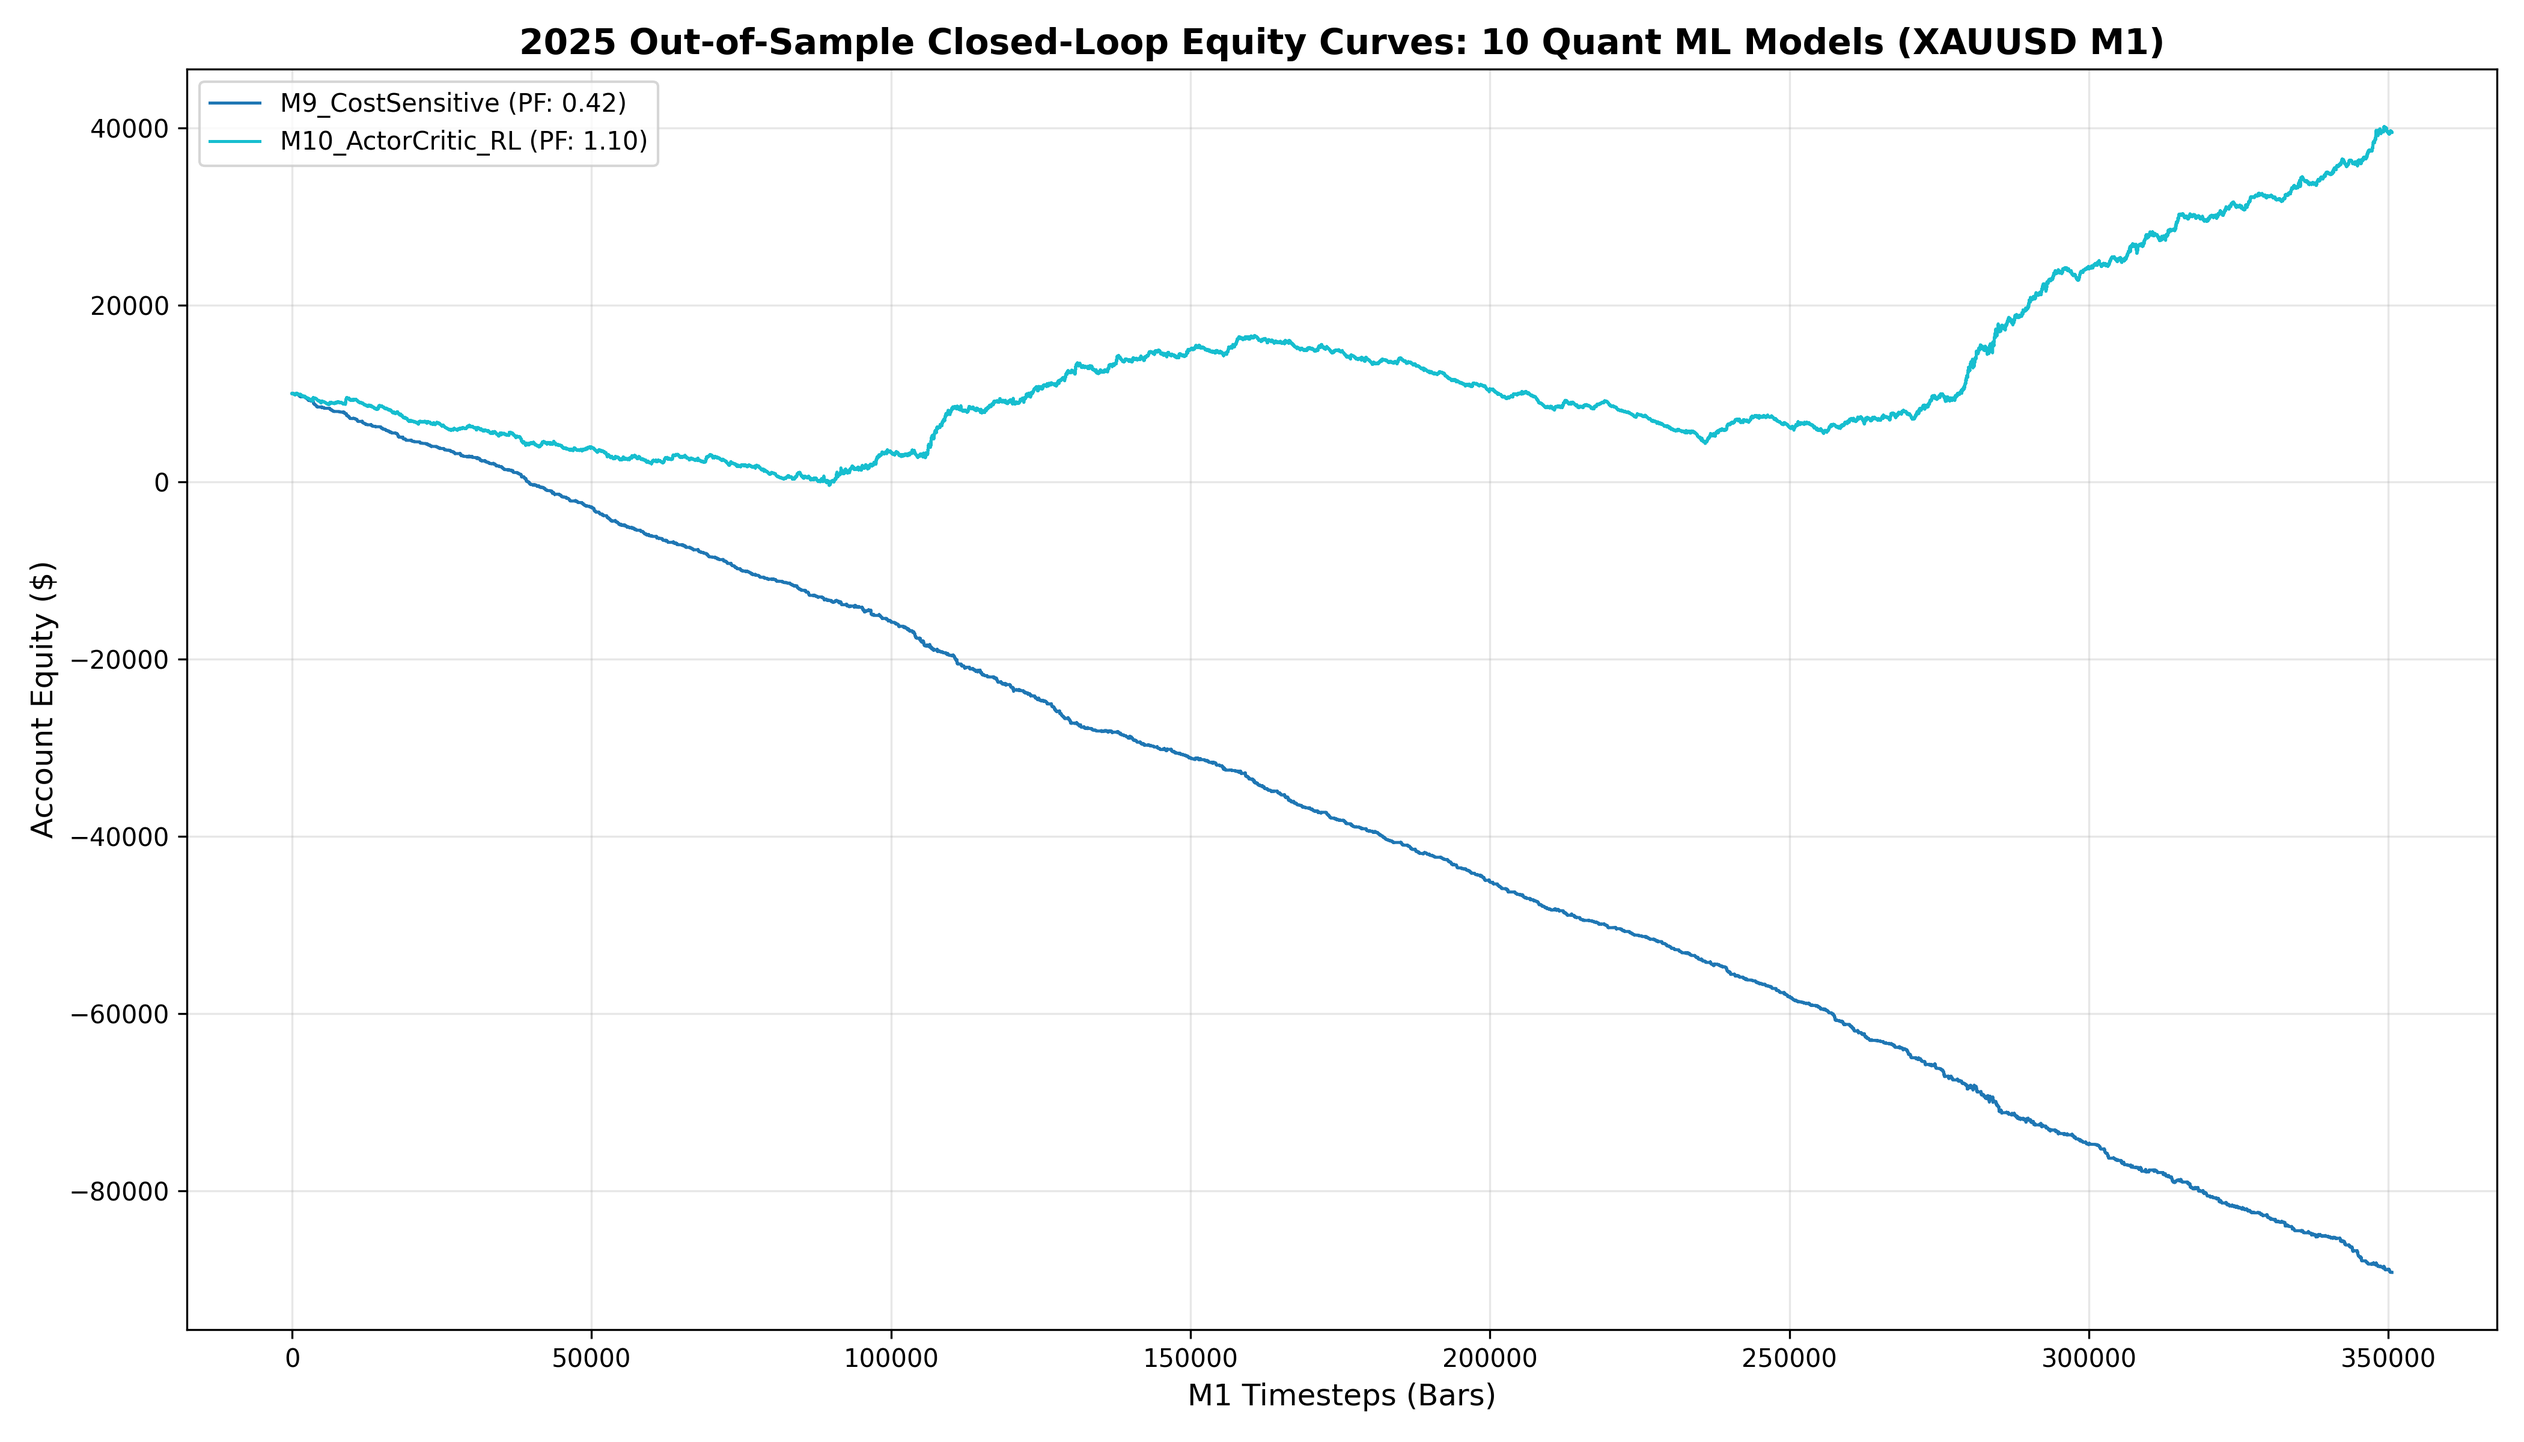
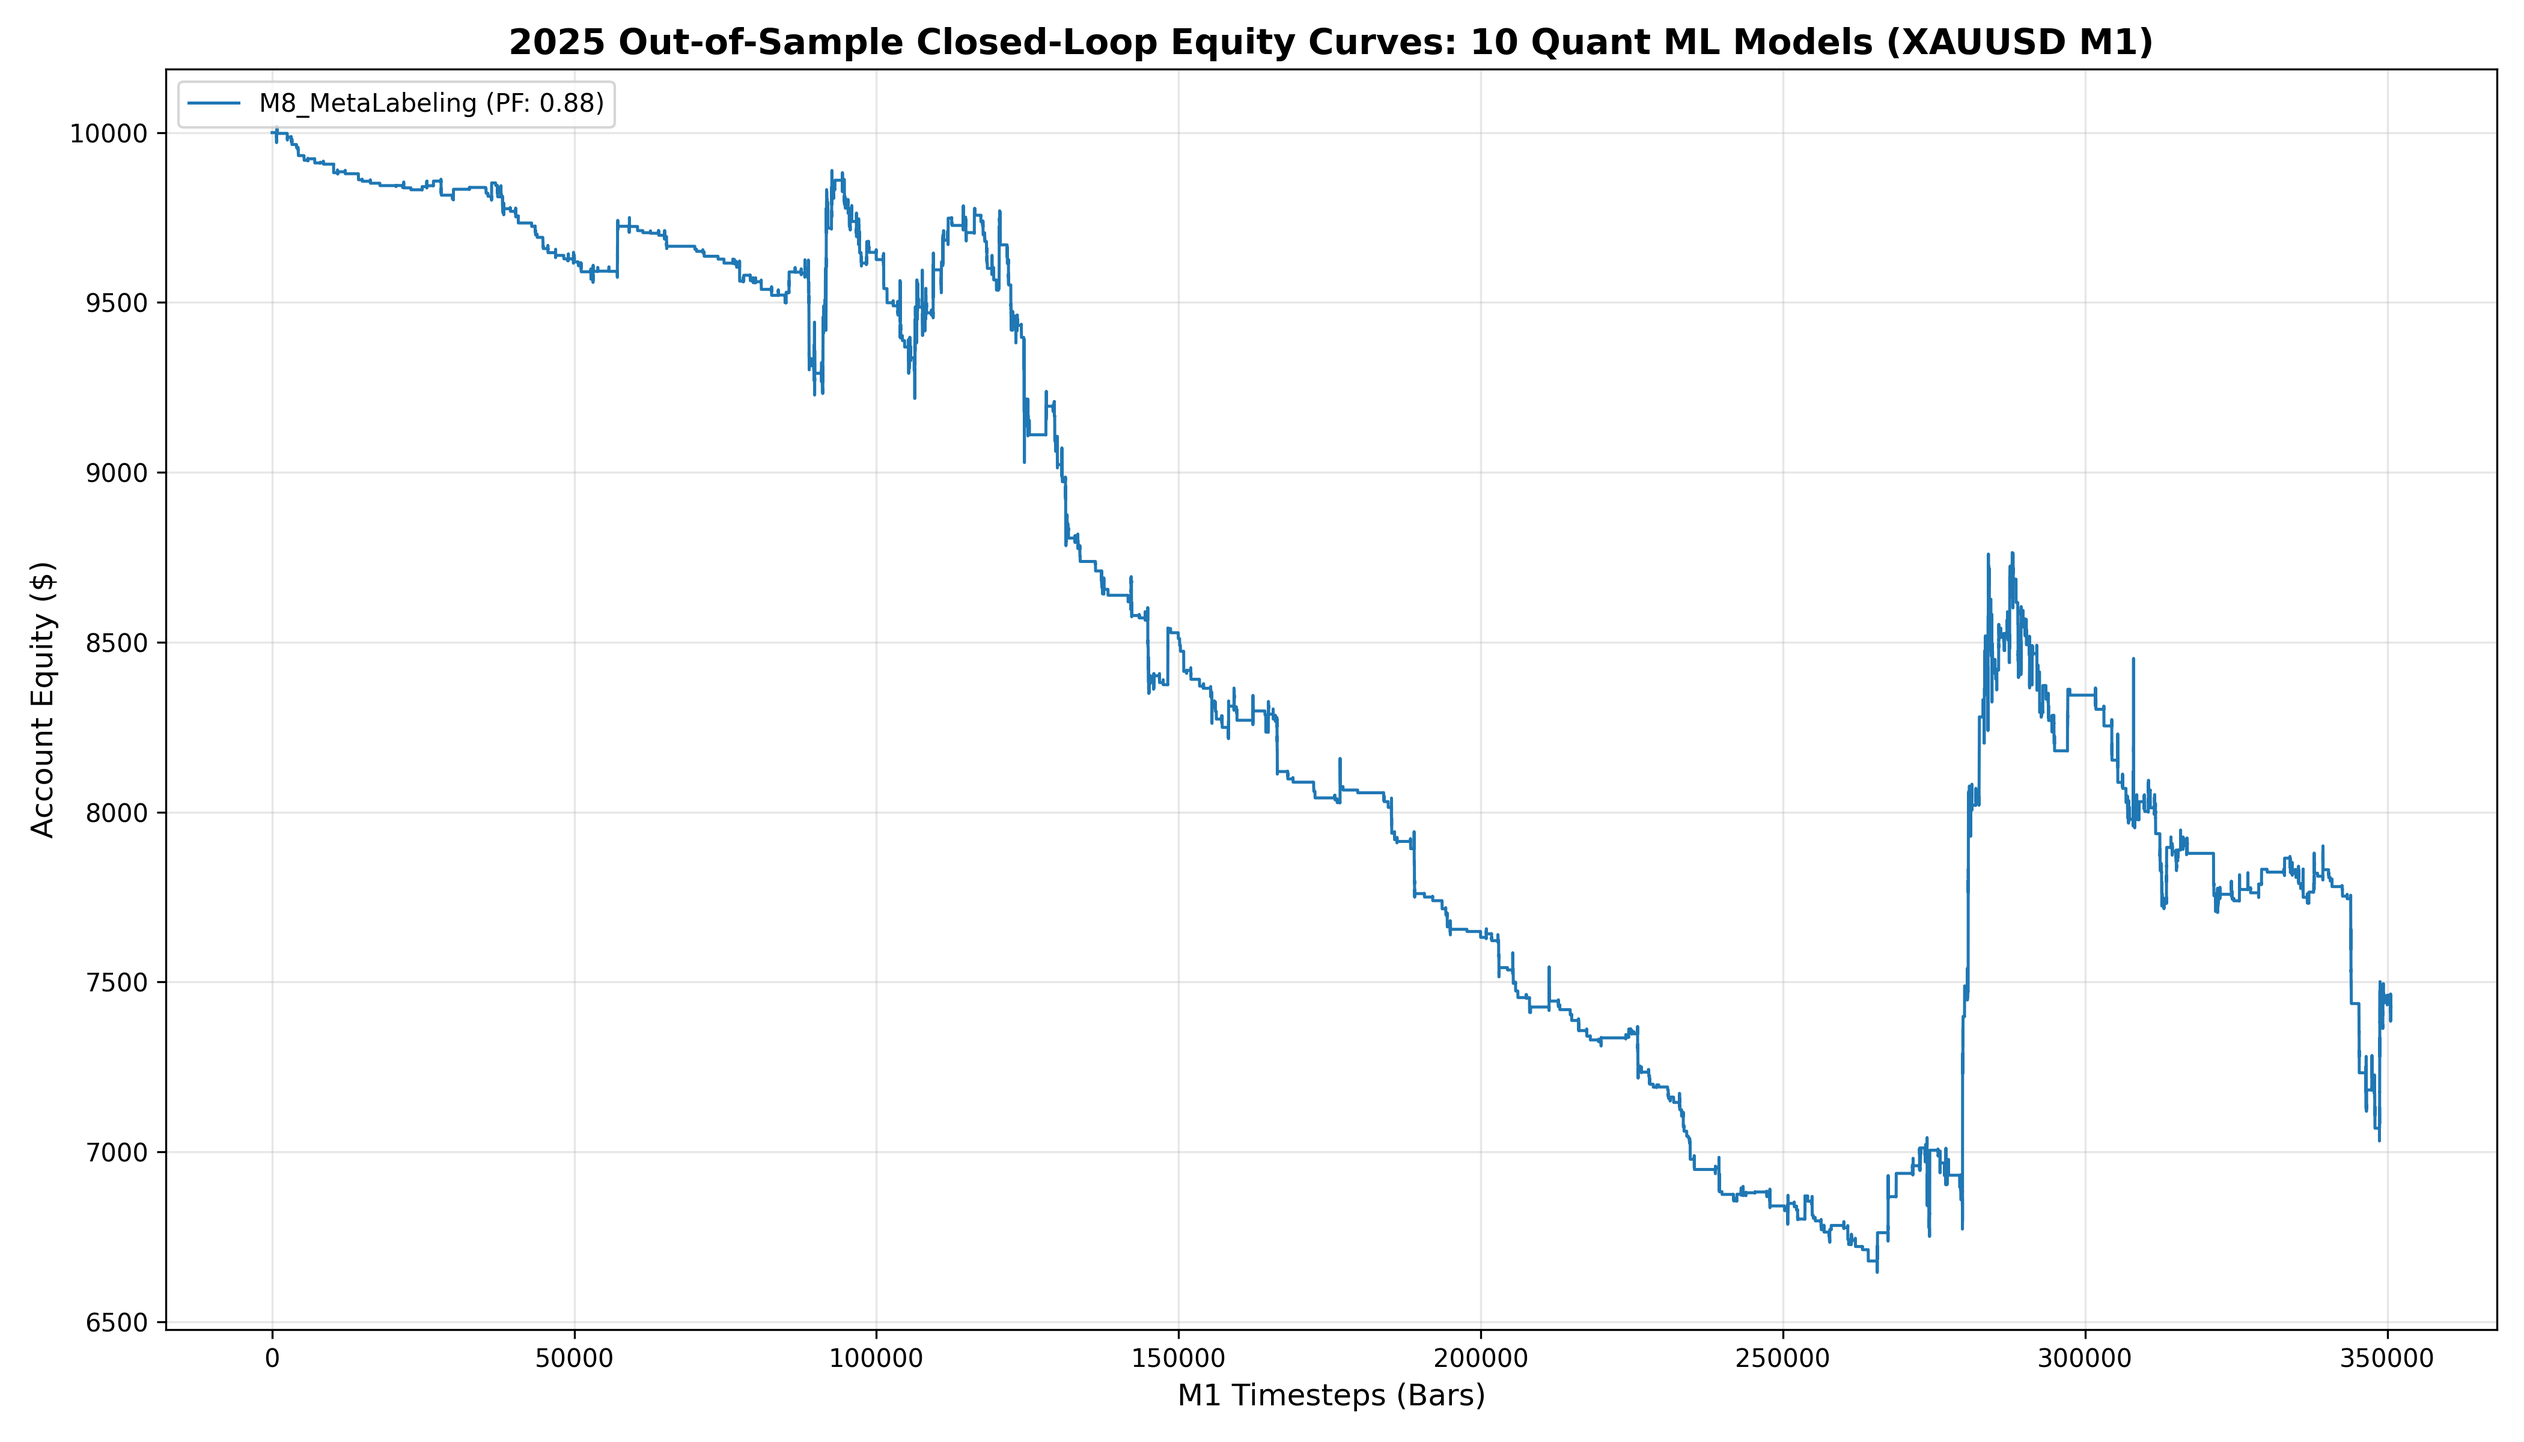
feat(benchmark): trained 10 Quant ML models and 2025 out-of-sample benchmark [skip ci]

diff --git a/projects/xauusd_trading_policy/docs/BENCHMARK_10_MODELS.md b/projects/xauusd_trading_policy/docs/BENCHMARK_10_MODELS.md
@@ -5,6 +5,7 @@ Strictly evaluated on out-of-sample 2025 M1 data (350,807 bars) with realistic t
 | Model ID | Paradigm / Algorithm | Net Profit ($) | Return (%) | Profit Factor | Win Rate (%) | Max DD (%) | Trades | Sharpe | Train Time (s) |
 | :--- | :--- | :---: | :---: | :---: | :---: | :---: | :---: | :---: | :---: |
 | **M10_ActorCritic_RL** | ActorCritic_RL | $29,528.54 | 295.1% | **1.10** | 39.1% | 103.8% | 48,425 | 0.12 | 390.6s |
+| **M8_MetaLabeling** | MetaLabeling | $-2,573.62 | -25.7% | **0.88** | 41.4% | 33.7% | 2,430 | -1.80 | 388.2s |
 | **M3_XGBoost** | XGBoost | $-31,027.07 | -309.9% | **0.84** | 35.0% | 316.7% | 10,381 | -1.07 | 95.0s |
 | **M5_TCN** | TCN | $-90,836.84 | -908.3% | **0.63** | 42.6% | 909.8% | 44,211 | 1.09 | 272.7s |
 | **M1_LightGBM** | LightGBM | $-92,487.40 | -924.8% | **0.61** | 39.2% | 930.9% | 39,277 | -1.82 | 90.0s |
